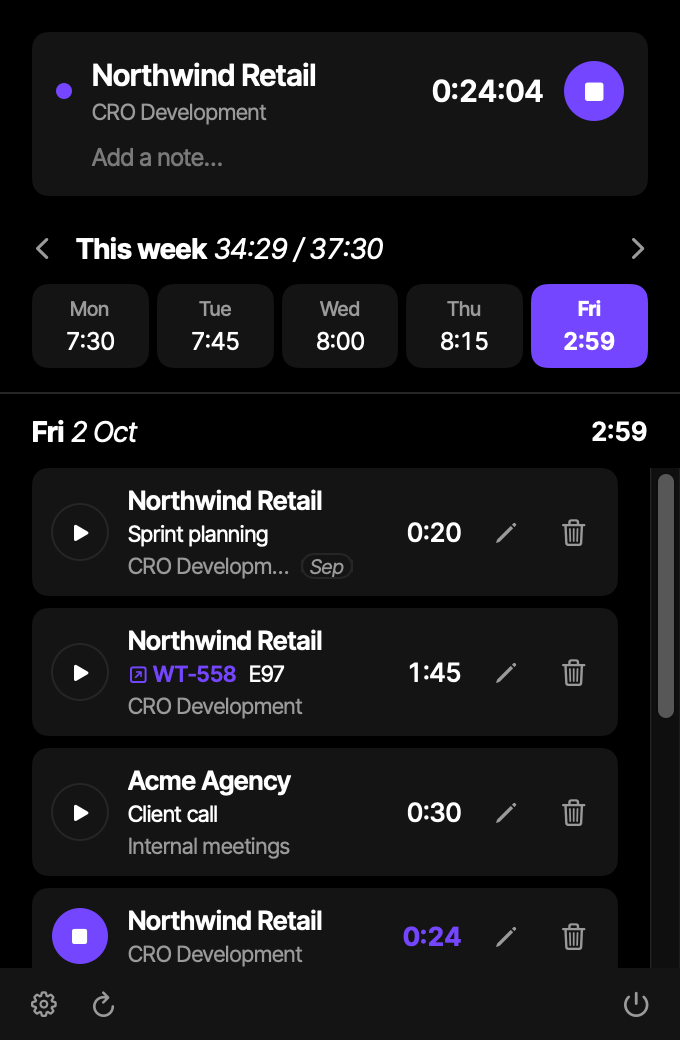
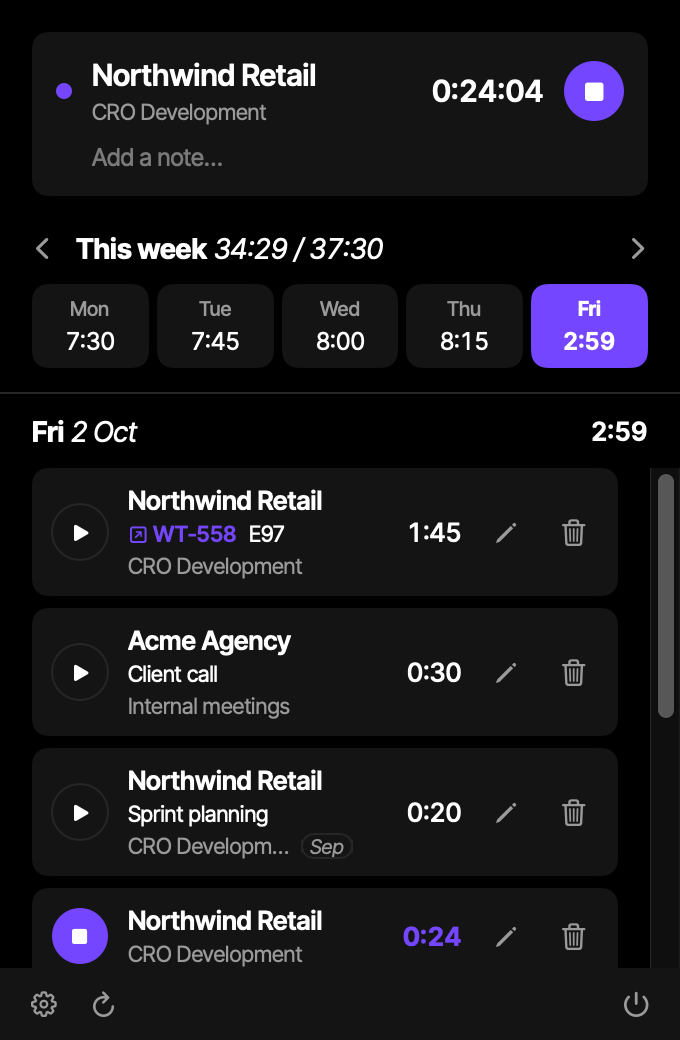
fix: harden automatic installs, offline sync and recents before 1.1.0
From a review of this release:
- An "install now" click that has to wait for Productive no longer skips the
  popup check later, so a form in use is never lost to a relaunch.
- One more main-queue turn before the install: a menu bar ▶ or an idle answer
  handled just before starts its request first.
- An offline action that Productive refuses (HTTP 4xx, for example an entry
  deleted on the web) is dropped and reported. Kept, it failed every refresh
  and held back every automatic update.
- Recents: inside a day the newest entry (highest id) comes first; the API
  returns entries in no fixed order.
- The month tag adds the year for a budget from another year ("Oct 2025").
- The Settings switch re-reads automatic installs when checks turn on again.
- Release notes: copies older than 1.1.0 still update through the alert.

diff --git a/Sources/ProductiveCore/TimeStore.swift b/Sources/ProductiveCore/TimeStore.swift
@@ -314,7 +314,7 @@ public final class TimeStore: ObservableObject {
         defer { isLoading = false }
         advanceClock()
         do {
-            try await flushPending(api: api, person: person)
+            let refused = try await flushPending(api: api, person: person)
             async let timers = api.recentTimers(personID: person.id)
             let entryList = try await loadEntries(api: api, personID: person.id)
             let running = try await timers.first(where: \.isRunning)
@@ -325,7 +325,7 @@ public final class TimeStore: ObservableObject {
             if let entry = runningEntry, !entry.isPending { remember(entry) }
             await loadCalendar(selectedDay, force: true)
             isOffline = false
-            lastError = nil
+            lastError = refused.map { "Productive refused a change made offline. \($0.errorDescription ?? "")" }
             await fillJiraNotes(api: api)
             if servicesLoadedAt.map({ now.timeIntervalSince($0) > 6 * 3600 }) ?? true {
                 await performServicesRefresh()
@@ -590,41 +590,53 @@ public final class TimeStore: ObservableObject {
         }
     }
 
-    /// Runs on the serial queue only (inside `performRefresh`).
-    private func flushPending(api: ProductiveAPI, person: Person) async throws {
+    /// Sends the offline actions in order. Runs on the serial queue only (inside `performRefresh`).
+    /// An action that Productive refuses is dropped: kept, it would fail every later refresh (and hold back
+    /// an automatic update, which waits for `hasPendingWork`). Returns the last refusal.
+    private func flushPending(api: ProductiveAPI, person: Person) async throws -> ProductiveError? {
+        var refused: ProductiveError?
         while let action = pending.first {
-            switch action {
-            case .start(let id, let service, let at, let entryID, let base, let note):
-                let gap = Self.minutes(from: at, to: clock())
-                let entry: TimeEntry
-                if let entryID {
-                    entry = try await api.updateTimeEntry(id: entryID, minutes: base + gap, note: nil)
-                } else {
-                    entry = try await api.createTimeEntry(personID: person.id, serviceID: service.id,
-                                                          day: Day(at), minutes: gap, note: note)
-                    // A retry must continue this entry, not create a second one.
-                    replacePending(id, with: .start(id: id, service: service, at: at, entryID: entry.id,
-                                                    baseMinutes: 0, note: note))
-                }
-                startedTimers[id] = try await api.startTimer(timeEntryID: entry.id)
-
-            case .stop(_, let timerID, let entryID, let startedAt, let base, let at):
-                do { _ = try await api.stopTimer(id: timerID) }
-                catch let e as ProductiveError where e.isNetwork { throw e }
-                catch { /* The timer was already stopped somewhere else. */ }
-                _ = try await api.updateTimeEntry(id: entryID, minutes: base + Self.minutes(from: startedAt, to: at), note: nil)
-
-            case .log(let id, let service, let day, let entryID, let base, let minutes, let note):
-                if let entryID {
-                    _ = try await api.updateTimeEntry(id: entryID, minutes: base + minutes, note: nil)
-                } else {
-                    let entry = try await api.createTimeEntry(personID: person.id, serviceID: service.id,
-                                                              day: day, minutes: minutes, note: note)
-                    replacePending(id, with: .log(id: id, service: service, day: day, entryID: entry.id,
-                                                  baseMinutes: 0, minutes: minutes, note: note))
-                }
+            do {
+                try await send(action, api: api, person: person)
+            } catch let error as ProductiveError where error.isRefusal {
+                refused = error
             }
             pending.removeAll { $0.id == action.id }
+        }
+        return refused
+    }
+
+    private func send(_ action: PendingAction, api: ProductiveAPI, person: Person) async throws {
+        switch action {
+        case .start(let id, let service, let at, let entryID, let base, let note):
+            let gap = Self.minutes(from: at, to: clock())
+            let entry: TimeEntry
+            if let entryID {
+                entry = try await api.updateTimeEntry(id: entryID, minutes: base + gap, note: nil)
+            } else {
+                entry = try await api.createTimeEntry(personID: person.id, serviceID: service.id,
+                                                      day: Day(at), minutes: gap, note: note)
+                // A retry must continue this entry, not create a second one.
+                replacePending(id, with: .start(id: id, service: service, at: at, entryID: entry.id,
+                                                baseMinutes: 0, note: note))
+            }
+            startedTimers[id] = try await api.startTimer(timeEntryID: entry.id)
+
+        case .stop(_, let timerID, let entryID, let startedAt, let base, let at):
+            do { _ = try await api.stopTimer(id: timerID) }
+            catch let e as ProductiveError where e.isNetwork { throw e }
+            catch { /* The timer was already stopped somewhere else. */ }
+            _ = try await api.updateTimeEntry(id: entryID, minutes: base + Self.minutes(from: startedAt, to: at), note: nil)
+
+        case .log(let id, let service, let day, let entryID, let base, let minutes, let note):
+            if let entryID {
+                _ = try await api.updateTimeEntry(id: entryID, minutes: base + minutes, note: nil)
+            } else {
+                let entry = try await api.createTimeEntry(personID: person.id, serviceID: service.id,
+                                                          day: day, minutes: minutes, note: note)
+                replacePending(id, with: .log(id: id, service: service, day: day, entryID: entry.id,
+                                              baseMinutes: 0, minutes: minutes, note: note))
+            }
         }
     }
 
@@ -814,10 +826,11 @@ public final class TimeStore: ObservableObject {
         services.first { $0.id == service.id } ?? service
     }
 
-    /// Services of recent entries, newest first (for the picker).
+    /// Services of recent entries, newest first (for the picker). Inside a day, a higher entry id is newer;
+    /// Productive returns entries in no fixed order.
     public var recentServices: [Service] {
         var seen = Set<String>()
-        return entries.sorted { $0.day > $1.day }
+        return entries.sorted { ($0.day, Int($0.id) ?? .max) > ($1.day, Int($1.id) ?? .max) }
             .map { resolvedService(for: $0.service) }
             .filter { !$0.id.isEmpty && seen.insert($0.id).inserted }
     }

diff --git a/Sources/Tempo/UpdateController.swift b/Sources/Tempo/UpdateController.swift
@@ -21,6 +21,8 @@ final class UpdateController: NSObject, ObservableObject, SPUUpdaterDelegate, SP
     @Published private(set) var updateAvailable = false
     /// The version of a downloaded update that waits for a quiet moment to install. The footer shows it.
     @Published private(set) var readyVersion: String?
+    /// True after a click on the footer button while a change waited for Productive: the install follows.
+    @Published private(set) var installRequested = false
     /// The two Sparkle settings, mirrored for the Settings screen. Sparkle stores them.
     @Published private(set) var automaticallyChecks = true
     @Published private(set) var automaticallyInstalls = true
@@ -37,7 +39,6 @@ final class UpdateController: NSObject, ObservableObject, SPUUpdaterDelegate, SP
     private let logger = Logger(subsystem: "app.tempo.menubar", category: "updates")
     /// Sparkle's block that installs the downloaded update and relaunches the app.
     private var installUpdate: (() -> Void)?
-    private var installRequested = false
     private var retry: Timer?
 
     override init() {
@@ -50,7 +51,11 @@ final class UpdateController: NSObject, ObservableObject, SPUUpdaterDelegate, SP
             .sink { [weak self] can in self?.canCheckForUpdates = can }
             .store(in: &cancellables)
         updater.publisher(for: \.automaticallyChecksForUpdates)
-            .sink { [weak self] on in self?.automaticallyChecks = on }
+            .sink { [weak self, weak updater] on in
+                self?.automaticallyChecks = on
+                // Sparkle reports automatic installs as off while checks are off: read the value again.
+                if let updater { self?.automaticallyInstalls = updater.automaticallyDownloadsUpdates }
+            }
             .store(in: &cancellables)
         updater.publisher(for: \.automaticallyDownloadsUpdates)
             .sink { [weak self] on in self?.automaticallyInstalls = on }
@@ -80,25 +85,37 @@ final class UpdateController: NSObject, ObservableObject, SPUUpdaterDelegate, SP
         controller.updater.automaticallyDownloadsUpdates = on
     }
 
-    /// The footer button: installs the downloaded update now, or as soon as no change waits for Productive.
+    /// The footer button: installs the downloaded update now. While a change waits for Productive, the
+    /// install waits too, and then also for a closed popup, like an automatic one.
     func installNow() {
         installRequested = true
-        installWhenQuiet()
+        if isBusy() { scheduleRetry() } else { install() }
     }
 
     /// Runs Sparkle's install block when nothing would be lost; otherwise tries again every 30 s.
     private func installWhenQuiet() {
-        guard let installUpdate else { return }
-        let allowed = installRequested || (automaticallyInstalls && !isPopoverShown())
-        guard allowed && !isBusy() else {
-            if retry == nil {
-                logger.notice("update \(self.readyVersion ?? "?", privacy: .public) waits for a quiet moment")
-                retry = Timer.scheduledTimer(withTimeInterval: 30, repeats: true) { [weak self] _ in
-                    MainActor.assumeIsolated { self?.installWhenQuiet() }
-                }
-            }
-            return
+        guard installUpdate != nil else { return }
+        guard isQuiet else { return scheduleRetry() }
+        // One more turn of the main queue first: a click handled just now (▶ in the menu bar, an answer to
+        // the idle question) starts its work in a task that runs before this block and makes `isBusy` true.
+        DispatchQueue.main.async { [weak self] in
+            guard let self else { return }
+            if self.isQuiet { self.install() } else { self.scheduleRetry() }
         }
+    }
+
+    private var isQuiet: Bool { (installRequested || automaticallyInstalls) && !isPopoverShown() && !isBusy() }
+
+    private func scheduleRetry() {
+        guard retry == nil else { return }
+        logger.notice("update \(self.readyVersion ?? "?", privacy: .public) waits for a quiet moment")
+        retry = Timer.scheduledTimer(withTimeInterval: 30, repeats: true) { [weak self] _ in
+            MainActor.assumeIsolated { self?.installWhenQuiet() }
+        }
+    }
+
+    private func install() {
+        guard let installUpdate else { return }
         retry?.invalidate()
         retry = nil
         logger.notice("installing update \(self.readyVersion ?? "?", privacy: .public) and relaunching")

diff --git a/Tests/ProductiveCoreTests/TimeStoreTests.swift b/Tests/ProductiveCoreTests/TimeStoreTests.swift
@@ -38,7 +38,7 @@ final class MockAPI: ProductiveAPI, @unchecked Sendable {
 
     func updateTimeEntry(id: String, changes: EntryChanges) async throws -> TimeEntry {
         try check("update \(id) \(changes.minutes.map(String.init) ?? "-")")
-        let i = entries.firstIndex { $0.id == id }!
+        guard let i = entries.firstIndex(where: { $0.id == id }) else { throw ProductiveError.http(status: 404, message: "Not found") }
         if let minutes = changes.minutes { entries[i].minutes = minutes }
         if let note = changes.note { entries[i].note = note }
         if let day = changes.day { entries[i].day = day }
@@ -292,6 +292,29 @@ final class TimeStoreTests: XCTestCase {
         XCTAssertFalse(store.isOffline)
         XCTAssertTrue(api.calls.contains("create 9001 25"))
         XCTAssertFalse(store.hasPendingWork)
+    }
+
+    func testRefusedOfflineChangeIsDroppedAndReported() async {
+        var clock = Date()
+        api.entries = [TimeEntry(id: "501", day: Day(clock), minutes: 30, note: "", service: cro)]
+        api.timers = [RunningTimer(id: "7001", startedAt: clock.addingTimeInterval(-10 * 60), timeEntryID: "501")]
+        let store = TimeStore(settings: settings, tokenStore: MemoryTokenStore(), makeAPI: { [api] _ in api! }, clock: { clock })
+        await store.connect(token: "tok", organizationID: "555")
+        api.failure = .offline
+        await store.stop()
+        XCTAssertTrue(store.hasPendingWork)
+
+        api.entries = [] // Deleted on the web before the Mac is back online: Productive answers 404.
+        api.failure = nil
+        clock = clock.addingTimeInterval(60)
+        await store.refresh()
+        XCTAssertTrue(store.pending.isEmpty, "a refused change cannot block every later refresh")
+        XCTAssertFalse(store.hasPendingWork, "nor an automatic update")
+        XCTAssertTrue(store.lastError?.contains("refused") == true, "the user sees why the change is gone")
+        XCTAssertFalse(store.isOffline)
+
+        await store.refresh()
+        XCTAssertNil(store.lastError, "the next refresh is clean")
     }
 
     func testPendingWorkWhileARequestRuns() async {

diff --git a/Tests/ProductiveCoreTests/PickerSearchTests.swift b/Tests/ProductiveCoreTests/PickerSearchTests.swift
@@ -82,6 +82,33 @@ final class ServiceDataTests: XCTestCase {
         XCTAssertEqual(store.clientCodes, ["wt": "Wingtip Online Ltd"])
         XCTAssertEqual(store.recentServices.map(\.id), ["1"])
     }
+
+    /// Productive returns entries in no fixed order: inside a day, the newest entry (highest id) comes first.
+    @MainActor
+    func testRecentServicesNewestFirstInsideADay() async {
+        let api = MockAPI()
+        let today = Day(Date())
+        let services = ["A", "B", "C", "D"].map { Service(id: $0, name: "Service \($0)") }
+        api.services = services
+        api.entries = [TimeEntry(id: "100", day: today, minutes: 1, note: "", service: services[0]),
+                       TimeEntry(id: "102", day: today, minutes: 1, note: "", service: services[1]),
+                       TimeEntry(id: "101", day: today, minutes: 1, note: "", service: services[2]),
+                       TimeEntry(id: "999", day: today.adding(days: -1), minutes: 1, note: "", service: services[3])]
+        let store = TimeStore(settings: SettingsStore(defaults: UserDefaults(suiteName: "recent-\(UUID())")!),
+                              tokenStore: MemoryTokenStore(), makeAPI: { _ in api })
+        await store.connect(token: "t", organizationID: "1")
+        let yesterdayInWeek = store.weekDays.contains(today.adding(days: -1))
+        XCTAssertEqual(store.recentServices.map(\.id), ["B", "C", "A"] + (yesterdayInWeek ? ["D"] : []))
+    }
+
+    func testRefusalIsAnAnswerNotANetworkError() {
+        XCTAssertTrue(ProductiveError.http(status: 404, message: "").isRefusal)
+        XCTAssertTrue(ProductiveError.http(status: 422, message: "").isRefusal)
+        XCTAssertFalse(ProductiveError.http(status: 500, message: "").isRefusal, "a server error can pass")
+        XCTAssertFalse(ProductiveError.offline.isRefusal)
+        XCTAssertFalse(ProductiveError.rateLimited.isRefusal)
+        XCTAssertFalse(ProductiveError.unauthorized.isRefusal)
+    }
 }
 
 final class ServiceSearchTests: XCTestCase {

diff --git a/Sources/Tempo/Views/MainView.swift b/Sources/Tempo/Views/MainView.swift
@@ -121,8 +121,11 @@ struct BudgetMonthTag: View {
     let day: Day
 
     var body: some View {
-        if service.budgetEndedBeforeMonth(of: day), let end = service.budgetEnd?.date() {
-            Text(end.formatted(.dateTime.month(.abbreviated)))
+        if service.budgetEndedBeforeMonth(of: day), let endDay = service.budgetEnd {
+            let end = endDay.date()
+            // "Sep", or "Oct 2025" for a budget from another year.
+            Text(end.formatted(endDay.iso.prefix(4) == day.iso.prefix(4) ? .dateTime.month(.abbreviated)
+                                                                          : .dateTime.month(.abbreviated).year()))
                 .font(Brand.italic(10))
                 .foregroundStyle(Brand.secondary)
                 .padding(.horizontal, 4)
@@ -438,7 +441,9 @@ struct FooterBar: View {
                 .animation(.easeInOut(duration: 0.4), value: store.isLoading)
             if let version = updates.readyVersion {
                 IconButton(systemName: "arrow.down.circle.fill",
-                           help: "Tempo \(version) is ready. It installs when the popup closes. Click to install now.",
+                           help: updates.installRequested
+                               ? "Tempo \(version) installs when your changes have reached Productive."
+                               : "Tempo \(version) is ready. It installs when the popup closes. Click to install now.",
                            tint: Brand.violet) {
                     updates.installNow()
                 }

diff --git a/Sources/Tempo/PreviewRenderer.swift b/Sources/Tempo/PreviewRenderer.swift
@@ -123,12 +123,12 @@ private final class SampleAPI: ProductiveAPI, @unchecked Sendable {
                 list.append(TimeEntry(id: String(id), day: day, minutes: m, note: n, service: services[s], isLocked: i == 0))
             }
         }
-        // Tracked on last month's budget by mistake: the day list and the picker's Recent mark it.
-        list.append(TimeEntry(id: "899", day: Day(Date()), minutes: 20, note: "Sprint planning", service: services[4]))
         list.append(TimeEntry(id: "900", day: Day(Date()), minutes: 105, note: "", service: services[0],
                               jira: JiraLink(key: "WT-558", summary: "WT E97 Checkout Test 1 — Shorter Form",
                                              url: URL(string: "https://example.atlassian.net/browse/WT-558"))))
         list.append(TimeEntry(id: "901", day: Day(Date()), minutes: 30, note: "Client call", service: services[1]))
+        // Tracked on last month's budget by mistake: the day list and the picker's Recent mark it.
+        list.append(TimeEntry(id: "902", day: Day(Date()), minutes: 20, note: "Sprint planning", service: services[4]))
         return list
     }()
     var timer: RunningTimer?

diff --git a/Sources/ProductiveCore/ProductiveClient.swift b/Sources/ProductiveCore/ProductiveClient.swift
@@ -33,6 +33,13 @@ public enum ProductiveError: Error, LocalizedError, Equatable {
     }
 
     public var isNetwork: Bool { self == .offline }
+
+    /// Productive answered and refused the request (HTTP 4xx other than 401, 403 and 429), for example for an
+    /// entry that was deleted on the web. Sending it again gives the same answer.
+    public var isRefusal: Bool {
+        if case .http(let status, _) = self { return (400..<500).contains(status) }
+        return false
+    }
 }
 
 /// The fields of a time entry to change. A nil field does not change.

diff --git a/docs/superpowers/specs/2026-10-01-distribution-and-updates-design.md b/docs/superpowers/specs/2026-10-01-distribution-and-updates-design.md
@@ -205,8 +205,13 @@ A menu bar app is rarely quit, so `UpdateController` returns `true` and runs the
 - At once, and then every 30 s, when the popup is closed and `isBusy` is false. `isBusy` is
   `TimeStore.hasPendingWork` (an offline action waits, or a request is on the serial queue) or the idle
   question is open. The block installs and relaunches without a dialog.
+- Before the block runs, one more turn of the main queue: a click handled just before (▶ in the menu bar,
+  an answer to the idle question) starts its request in a task that runs first and makes `isBusy` true.
 - A running timer is safe: it runs in Productive. The relaunched app loads it again.
-- The footer shows the ready version; a click installs now (it still waits for `isBusy`).
+- The footer shows the ready version. A click installs at once when `isBusy` is false. Otherwise the
+  install follows when `isBusy` clears and the popup is closed, so a form in use is never lost.
+- An offline action that Productive refuses (HTTP 4xx, for example an entry deleted on the web) is dropped
+  and reported in the footer. Kept, it would fail every refresh and hold back every update.
 - With the switch off, Sparkle does not download: a new version shows the "Update available" hint (§5.2).
   An update that was downloaded before the switch went off installs on the next quit, or from the footer.
 

diff --git a/docs/release.md b/docs/release.md
@@ -47,8 +47,9 @@ Sparkle. The design is in `docs/superpowers/specs/2026-10-01-distribution-and-up
 1. Everything is committed on `main` and the CI workflow is green.
 2. `git tag v1.2.0 && git push origin main v1.2.0`
 3. The Release workflow builds, signs and publishes: https://github.com/NoeFabris/tempo/releases
-4. Installed copies install the update by themselves within a day, while the popup is closed.
-   **Settings › Check for updates…** checks at once.
+4. Installed copies (1.1.0 and later) install the update by themselves within a day, while the popup is
+   closed. Older copies show Sparkle's alert or the footer hint. **Settings › Check for updates…** checks
+   at once.
 
 Versions are `MAJOR.MINOR.PATCH` and must increase. No pre-release tags. Never move or delete a
 published tag.
